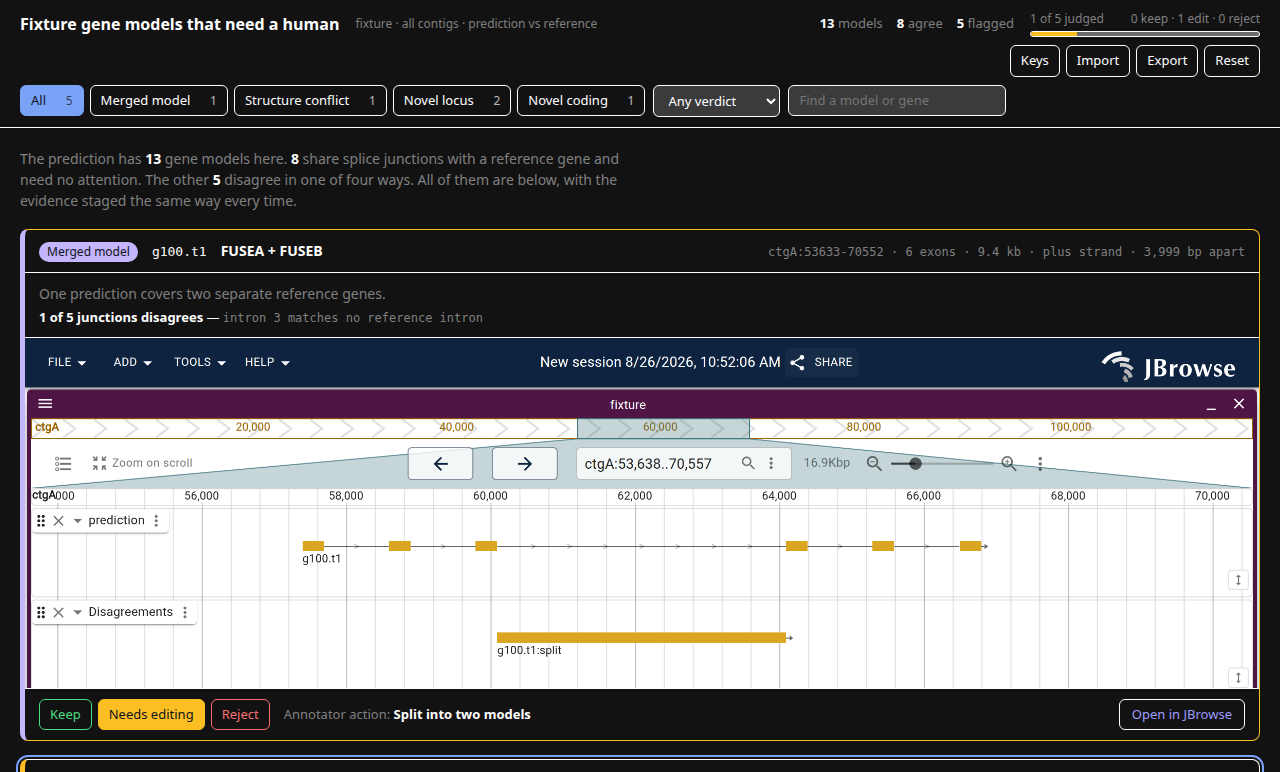
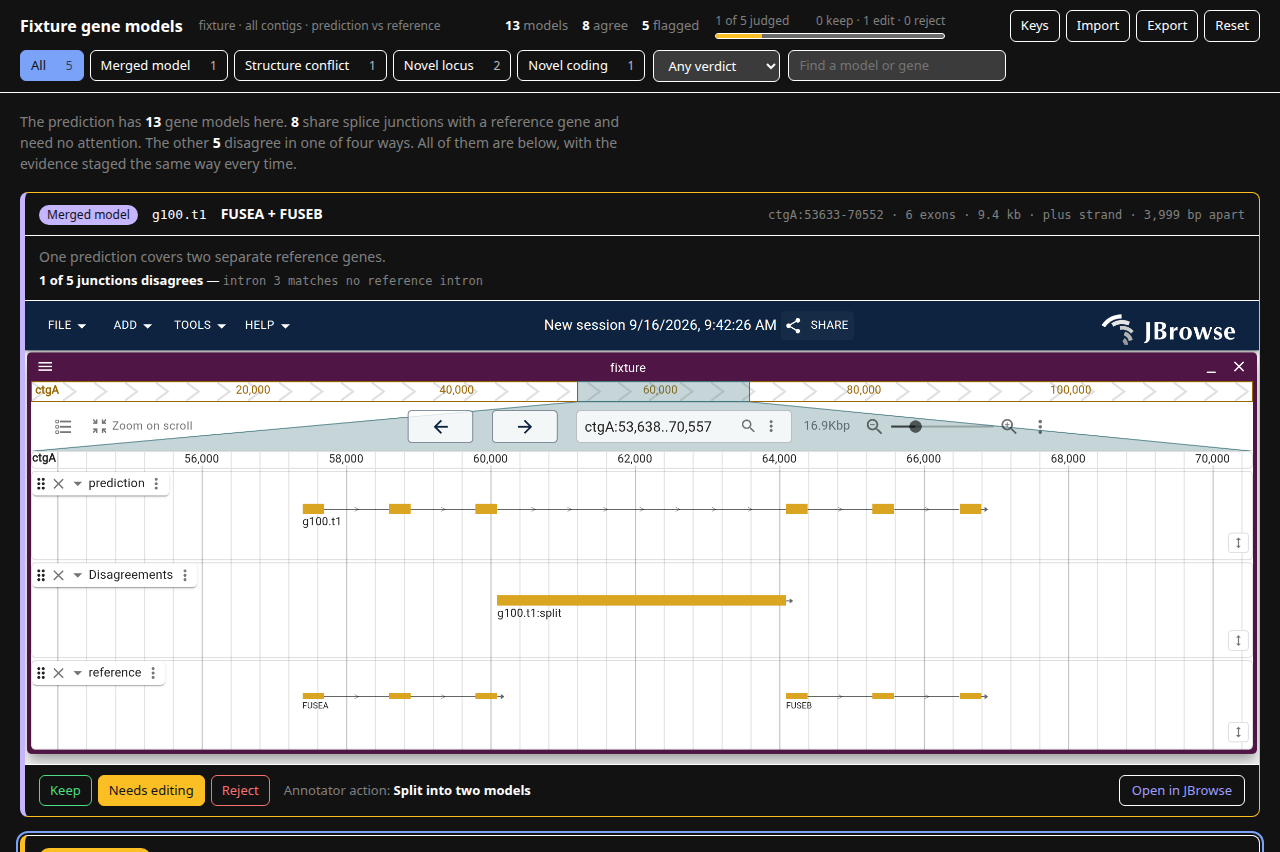
Show the reference annotation in the captures
A card said g100.t1:split and showed the prediction and the marked cut
point, with nothing to say which reference genes were merged — the frame
ended above the reference lane rather than the lane being absent. 450px
fits all three, so that is the default capture height and what shoot.mjs
asks for; the README shots now name FUSEA and FUSEB.

shoot.mjs also raced hydration: its j/2/j landed on a page with no key
handlers yet and one run in three shot an untouched queue. Each press now
repeats until the DOM shows it took.

diff --git a/docs/classification.md b/docs/classification.md
@@ -64,7 +64,10 @@ puts every minus-strand edit at the wrong end of its intron.
 
 The same file rides in every capture and every live link as the
 **Disagreements** track, directly under the prediction, so the picture points at
-the junction rather than leaving a reviewer to find it.
+the junction rather than leaving a reviewer to find it. The reference annotation
+is the lane below, because a marked junction still does not say what the model
+disagrees *with*: a `split` names a cut point, and only the two reference genes
+either side of it say what was merged.
 
 **The BED reaches further than the page does.** Cards exist only for the four
 flagged classes, and a model sharing four junctions out of five is filed as

diff --git a/README.md b/README.md
@@ -25,7 +25,9 @@ Live example, built from the command in
 [`demos/`](https://jbrowse.org/demos/tiberius_review/): Tiberius on human
 chr22, read against the hub's GENCODE 49.
 
-![The review page: a control bar, and one card per flagged model](docs/review-page-light.png)
+![The review page: a control bar, and one card per flagged model, each
+capture stacking the prediction, the junctions that disagree and the
+reference genes read against](docs/review-page-light.png)
 
 The page follows the reader's theme, so the same portal is legible either way:
 
